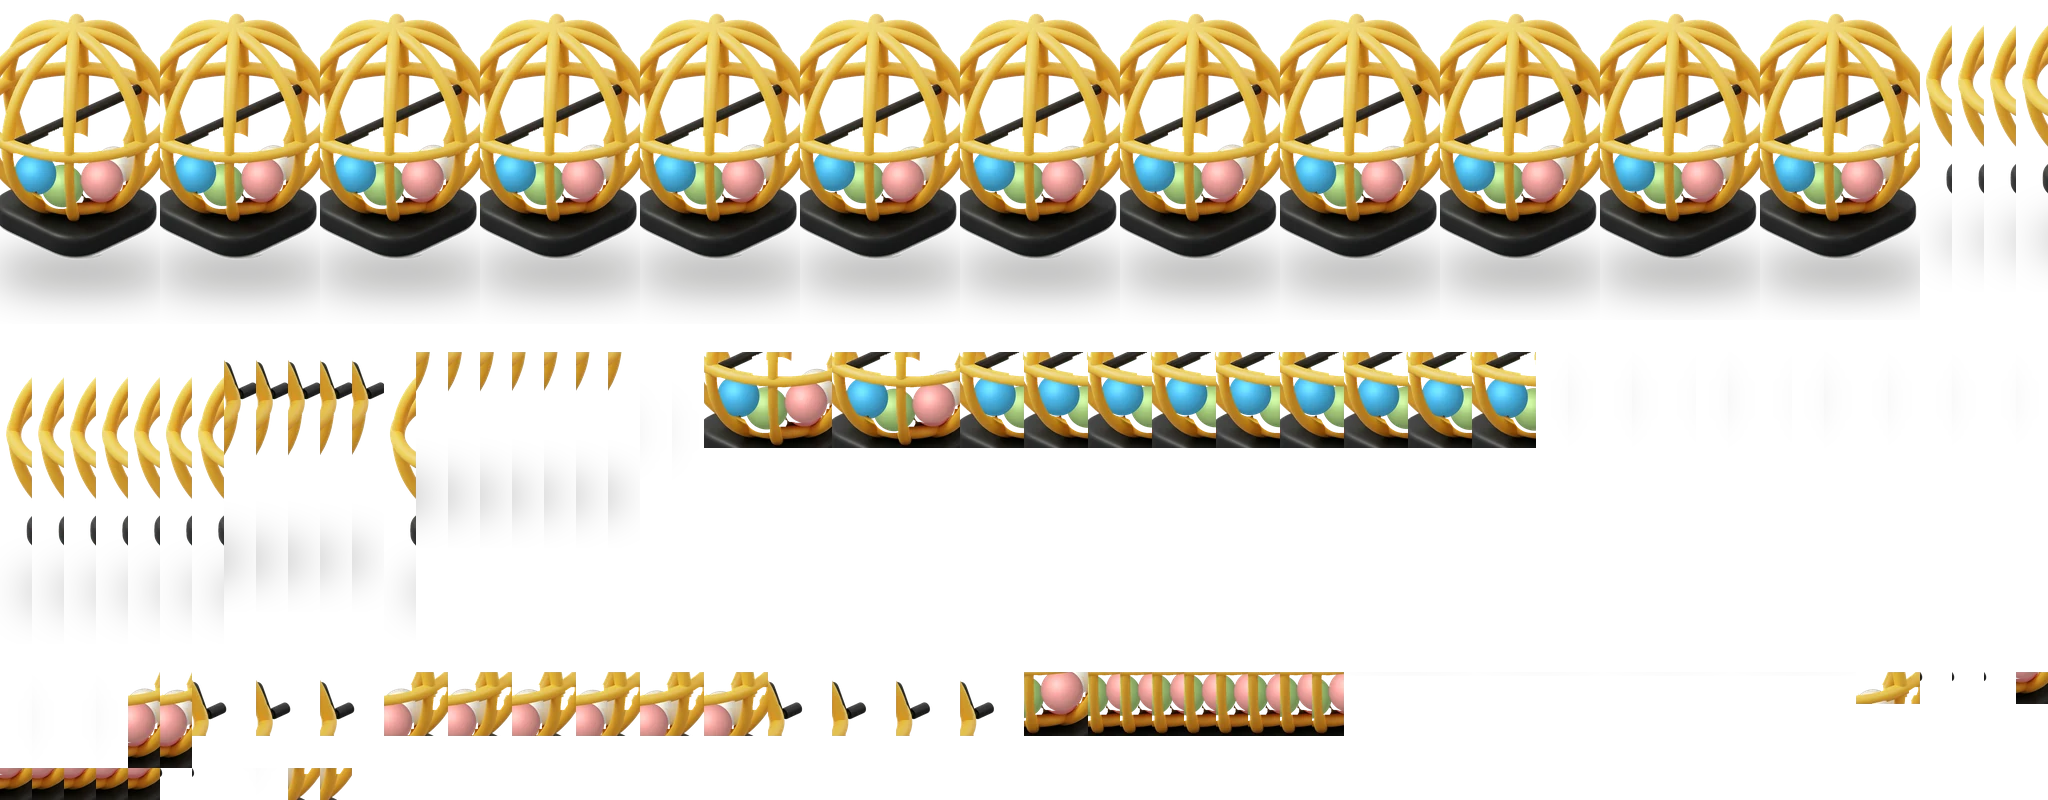
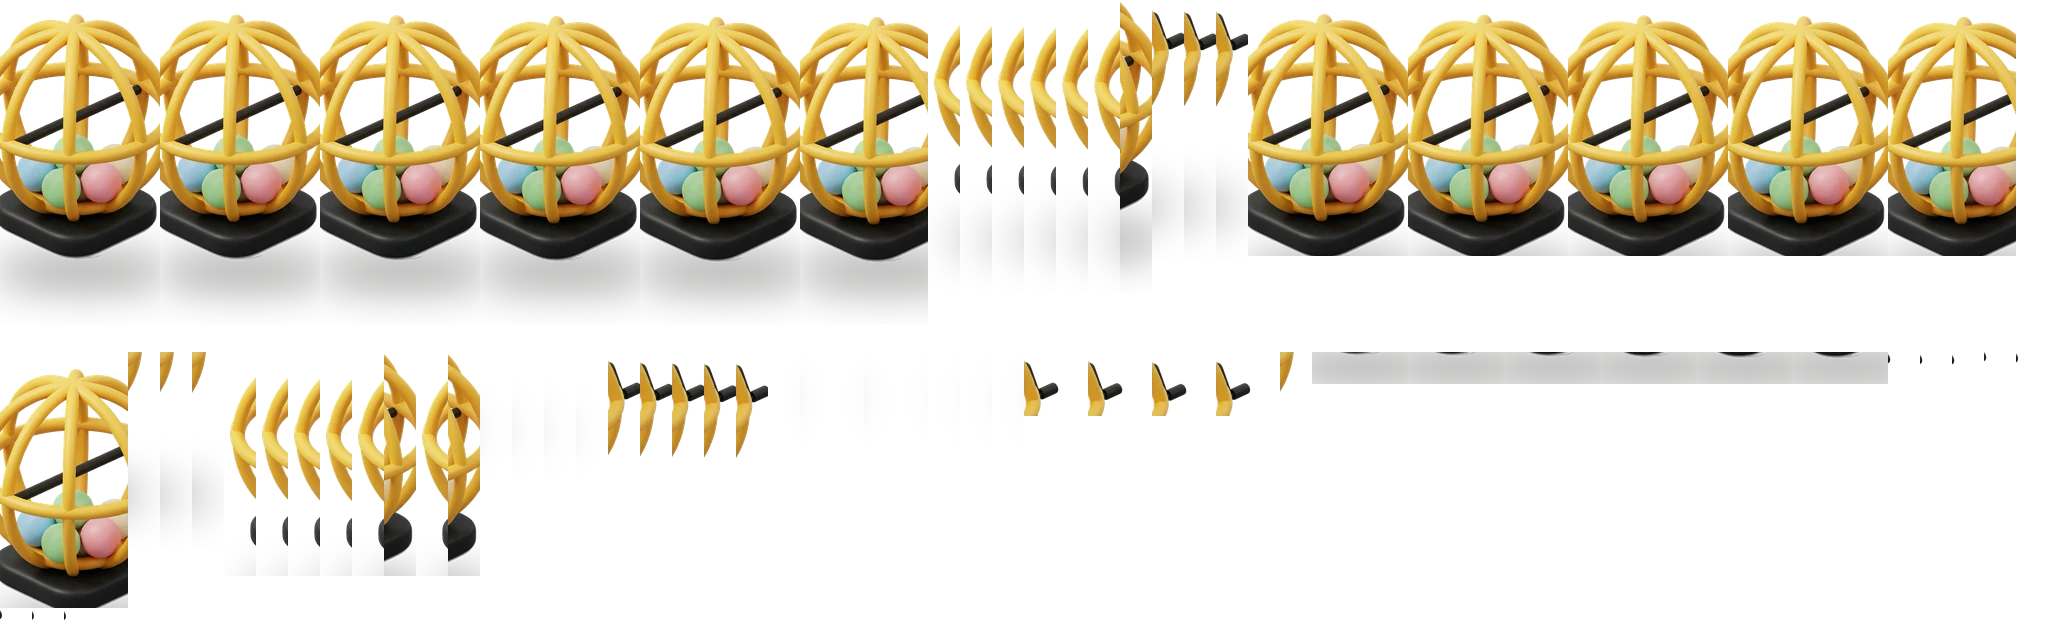
core: usar o still inteiro na gaiola do host, sem apagar nem repintar as bolas
Apagar as bolas do still e repintar esferas por trás tirava pedaços da grade
perto delas e as esferas destoavam do render. A gaiola passa a usar o cutout
como saiu do still_cage_A: as bolas e as hastes ficam exatamente como foram
renderizadas. Movimento só no corpo: balanço de 3 graus com duas oscilações por
volta, assento de 1,3 % da altura no auge de cada inclinação (sin^2, em fase com
o balanço, lê-se como peso mudando de lado) e sombra de contato crescendo junto.
O brilho correndo pelas hastes foi testado e não aparece em 120 px, então ficou
de fora. Bundle 360x324, 48 quadros a 24 fps, WebP 88: 281 KB (antes 353 KB).

diff --git a/bingo_core/tool/lava_icons.py b/bingo_core/tool/lava_icons.py
@@ -10,7 +10,7 @@ openlava_encode.py) sem alterá-lo: cada ícone é uma subclasse de `Subject` re
 
 Ícones que precisam girar de verdade (livro, dado, lápis) são cenas 3D em `lava_sdf_icons.py`. A gaiola
 de bingo passou por lá e voltou: a cena SDF (hastes de tubo amarelo girando) parecia plástico e a emenda
-do loop aparecia; o still de hastes gordas com as bolas repintadas e pulando (`BingoCage`) ficou melhor.
+do loop aparecia; o still de hastes gordas usado inteiro, só balançando (`BingoCage`), ficou melhor.
 
     LAVA_SCALE=2 python3 tool/lava_icons.py bingo_cage stills/cage.png frames/bingo_cage   # 360x324
     python3 $LAVA_TOOL/openlava_encode.py assets/lava/bingo_cage --fps 24 --webp 88 --density 4 frames/bingo_cage/frame_*.png
@@ -65,82 +65,15 @@ class BingoBall(BingoSubject):
 
 class BingoCage(BingoSubject):
     """Gaiola de bingo (sala do host, 120 px): o still de uma gaiola de poucas hastes gordas com
-    quatro bolas pastel dentro. O corpo só balança 3 graus, sem subir; as bolas do still são
-    apagadas da camada e redesenhadas por trás dela (as hastes da frente que as cruzam ficam
-    no still, então a oclusão sai certa) e cada uma pula no seu próprio compasso, com um balanço
-    lateral pequeno. Nenhum giro falso: a gaiola parece viva sem emenda no loop."""
+    quatro bolas pastel dentro, usado inteiro, como saiu do render. As bolas e as hastes que as
+    cruzam ficam exatamente como estão: apagar e repintar as bolas (versão anterior) levava
+    pedaços da grade junto e as esferas pintadas destoavam do render. O corpo só balança 3 graus,
+    duas vezes por volta, e assenta um nada (1,3 % da altura) no auge de cada inclinação, em
+    fase com o balanço: lê-se como peso mudando de lado, não como um pulo. A sombra de contato
+    cresce junto. Um brilho correndo pelas hastes foi testado e não aparece em 120 px, então não
+    há camada secundária. Nenhum giro falso: a gaiola parece viva sem emenda no loop."""
     fill = 0.76
-    LIGHT = (-0.40, -0.48)     # direção do brilho nas bolas, em raios (luz do alto à esquerda)
-    # (x, y, raio, cor, fase, pulos por volta) em unidades do raio da esfera a partir do centro
-    # dela, de trás para a frente, medidos no still (as bolas do still são apagadas, estas são
-    # pintadas no lugar). Fases 0 / 0.5 e pulos pares deixam o quadro t igual ao 0.5 - t, como o
-    # balanço: metade dos quadros repete e o atlas cai pela metade.
-    BALLS = [(0.38, 0.50, 0.19, (255, 250, 236), 0.5, 4), (-0.13, 0.70, 0.21, GREEN, 0.0, 2),
-             (-0.40, 0.58, 0.21, BLUE, 0.5, 2), (0.26, 0.64, 0.21, (255, 172, 166), 0.0, 4)]
-
-    def __init__(self, obj):
-        super().__init__(obj)
-        a = np.array(obj).astype(int)
-        r, g, b, al = a[..., 0], a[..., 1], a[..., 2], a[..., 3]
-        solid = al > 128
-        # hastes: amarelo e o laranja sombreado delas (vermelho acima do verde, azul bem abaixo)
-        rib = solid & (r > g + 10) & (b < 0.62 * g + 10) & (r - b > 40)
-        bright = solid & (r > 150) & (g > 110) & (b < 120) & (r - b > 80)
-        ys, xs = np.where(bright)
-        self.cage_r = 0.5 * (xs.max() - xs.min())
-        self.cage_c = (0.5 * (xs.max() + xs.min()), ys.min() + self.cage_r)
-        yy, xx = np.mgrid[0:self.oh, 0:self.ow]
-        self.inside = (xx - self.cage_c[0]) ** 2 + (yy - self.cage_c[1]) ** 2 < (0.97 * self.cage_r) ** 2
-        # só a faixa das bolas: acima dela estão o eixo e os reflexos quase brancos das hastes,
-        # que passariam no teste de "creme" e levariam a borda iluminada do eixo junto
-        lower = yy > self.cage_c[1] + 0.26 * self.cage_r
-        # preto do eixo e da base: só os blocos grandes (a sombra escura na borda das bolas não)
-        dark = np.zeros((self.oh, self.ow), bool)
-        for m in component_masks(solid & (a[..., :3].max(axis=2) < 80), min_px=int(0.05 * self.cage_r ** 2)):
-            dark |= m
-        # com a borda iluminada (cinza) do eixo junto: ela não é bola
-        dark = np.array(Image.fromarray(dark.astype(np.uint8) * 255).filter(ImageFilter.MaxFilter(4 * SS + 1))) > 0
-        # as bolas do still: os pixels pastel da metade de baixo da esfera e, à volta deles, tudo
-        # que não é haste nem preto (a sombra escura na borda de cada bola)
-        chroma = a[..., :3].max(axis=2) - a[..., :3].min(axis=2)
-        pastel = ((b > r + 30) & (b > 150)) | ((g > r + 15) & (g > b + 15) & (g > 140)) | \
-                 ((r > g + 25) & (b > g - 20) & (r > 190) & (g > 120)) | ((a[..., :3].min(axis=2) > 185) & (chroma < 45))
-        seed = solid & self.inside & lower & ~rib & ~dark & pastel
-        near = np.array(Image.fromarray(seed.astype(np.uint8) * 255).filter(ImageFilter.MaxFilter(6 * SS + 1))) > 0
-        ball_px = solid & self.inside & lower & ~rib & ~dark & near
-        # o topo das bolas coloridas sobe acima da faixa: azul, verde e rosa não existem em mais
-        # nada da gaiola, então saem em toda a metade de baixo (o creme ficaria com os reflexos)
-        tinted = ((b > r + 30) & (b > 150)) | ((g > r + 12) & (g > b + 12) & (g > 85)) | \
-                 ((r > g + 25) & (b > g - 20) & (r > 190) & (g > 120))
-        ball_px |= solid & self.inside & (yy > self.cage_c[1]) & tinted & ~rib
-        ball_px = np.array(Image.fromarray(ball_px.astype(np.uint8) * 255).filter(ImageFilter.MaxFilter(3 * SS + 1))) > 0
-        ball_px &= ~dark
-        body = np.array(obj).astype(np.float32)
-        body[..., 3] *= ~ball_px
-        self.body = Image.fromarray(body.astype(np.uint8))
-
-    def _ball(self, layer, cx, cy, rad, col):
-        """Esfera pintada fosca: lambert suave, brilho largo e discreto, borda um pouco mais escura."""
-        x0, y0 = int(cx - rad - 2), int(cy - rad - 2)
-        x1, y1 = int(cx + rad + 3), int(cy + rad + 3)
-        x0, y0, x1, y1 = max(x0, 0), max(y0, 0), min(x1, self.ow), min(y1, self.oh)
-        yy, xx = np.mgrid[y0:y1, x0:x1]
-        dx, dy = (xx - cx) / rad, (yy - cy) / rad
-        d2 = dx * dx + dy * dy
-        cover = np.clip((1.0 - np.sqrt(d2)) * rad + 0.5, 0.0, 1.0)      # borda antisserrilhada
-        nz = np.sqrt(np.clip(1.0 - d2, 0.0, 1.0))
-        lx, ly = self.LIGHT
-        ln = math.sqrt(lx * lx + ly * ly + 0.75 ** 2)
-        lamb = np.clip((dx * lx + dy * ly + nz * 0.75) / ln, 0.0, 1.0)
-        shade = 0.72 + 0.30 * lamb
-        spec = np.exp(-((dx - lx * 0.6) ** 2 + (dy - ly * 0.6) ** 2) / 0.16) * 0.16
-        rgb = np.asarray(col, np.float32)[None, None, :] * shade[..., None] + 255.0 * spec[..., None]
-        rgb = rgb * (0.88 + 0.12 * nz)[..., None]
-        alpha = cover * self.inside[y0:y1, x0:x1]
-        dst = layer[y0:y1, x0:x1]
-        a = alpha[..., None]
-        dst[..., :3] = rgb * a + dst[..., :3] * (1 - a)
-        dst[..., 3] = alpha * 255 + dst[..., 3] * (1 - alpha)
+    SETTLE = 1.6               # px lógicos (x SS x SCALE): 3,2 px em 324 -> 1,3 % da altura do ícone
 
     def fold(self, t):
         """Fase dentro da meia-volta, quantizada na grade de quadros: o quadro i sai bit a bit igual
@@ -149,25 +82,12 @@ class BingoCage(BingoSubject):
         n = self.n_frames
         return (round(t * n) % (n // 2)) / n
 
-    def layer(self, t):
-        t = self.fold(t)
-        balls = np.zeros((self.oh, self.ow, 4), np.float32)
-        cx0, cy0, R = self.cage_c[0], self.cage_c[1], self.cage_r
-        for bx, by, br, col, ph, beats in self.BALLS:
-            hop = abs(math.sin(math.pi * beats * (t + ph)))
-            rad = br * R
-            x = cx0 + bx * R + 0.06 * rad * math.sin(2 * math.pi * (t + ph))
-            y = cy0 + by * R - (0.22 if beats == 2 else 0.14) * rad * hop
-            self._ball(balls, x, y, rad, col)
-        img = Image.fromarray(np.clip(balls, 0, 255).astype(np.uint8))
-        img.alpha_composite(self.body)
-        return img
-
     def motion(self, t):
-        # duas oscilações por volta, como os pulos: o quadro i é igual ao i + 24 e o atlas cabe
-        # em 450 KB com WebP 88 (uma só oscilação dava 26 poses únicas e 518 KB)
-        t = self.fold(t)
-        return rock(2 * t, 3.0), 0.0, 0.0, 1 + 0.02 * math.sin(4 * math.pi * t), 1.0
+        # duas oscilações por volta: o quadro i é igual ao i + 24 e o atlas cai pela metade.
+        # O assento (sin^2) é máximo nas duas inclinações extremas e zero no centro.
+        s = math.sin(4 * math.pi * self.fold(t))
+        settle = s * s
+        return 3.0 * s, 0.0, self.SETTLE * settle, 1 + 0.04 * settle, 1.0
 
 
 class PremiumBadge(BingoSubject):
